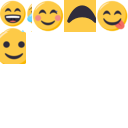
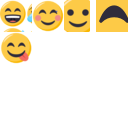
修改生成的sprite名字为图片的原名，增加spriteasset的创建，设置glyph的参数

Changed region(s): [[0.5, 0.0, 1.0, 0.25], [0.0, 0.25, 0.25, 0.5], [0.5, 0.2188, 0.5312, 0.25]]

diff --git a/Assets/Editor/TMPIconTools.cs b/Assets/Editor/TMPIconTools.cs
@@ -7,12 +7,15 @@ using UnityTexture2D = UnityEngine.Texture2D;
 using UnityEditor.Experimental.AssetImporters;
 using UnityEditorInternal;
 using System.IO;
+using TMPro;
 
 public class TMPIconTools : Editor
 {
     public const int ICON_SIZE = 32;
+    public const float DEFAULT_SCALE = 1.5f;
     private const string TMPICON_NAME = "TMPIcon";
     private static string m_SavePath = "Assets/TMPIcon/";
+    private static Dictionary<int, string> m_IconDic = new Dictionary<int, string>();
 
     [MenuItem("TMPIconTools/生成TMPIcon")]
     private static void GenerateTMPIcon()
@@ -66,6 +69,7 @@ public class TMPIconTools : Editor
         {
             return;
         }
+        m_IconDic.Clear();
         int sqrt = (int)(Mathf.Sqrt(texs.Length));
         if (texs.Length - sqrt * sqrt > 0)
         {
@@ -82,6 +86,7 @@ public class TMPIconTools : Editor
         int heightOffset = size - ICON_SIZE;    //左下角为0，0
         for (int i = 0; i < texs.Length; i++)
         {
+            m_IconDic[i] = texs[i].name;
             //var temp = CreateTemporaryDuplicate(texs[i], ICON_SIZE, ICON_SIZE, RenderTextureFormat.ARGB32);
             if (texs[i].isReadable == false)
             {
@@ -184,7 +189,16 @@ public class TMPIconTools : Editor
             spriteRect.alignment = (SpriteAlignment)alignment;
             spriteRect.pivot = pivot;
 
-            spriteRect.name = string.Format("{0}_{1}", TMPICON_NAME, index.ToString());
+            if (m_IconDic.ContainsKey(index))
+            {
+                spriteRect.name = m_IconDic[index];
+            }
+            else
+            {
+                spriteRect.name = "Error" + index.ToString();
+                Debug.LogError("找不到对应索引图片的名称:" + index.ToString());
+            }
+
             //spriteRect.originalName = spriteRect.name;
             spriteRect.border = Vector4.zero;
 
@@ -280,5 +294,49 @@ public class TMPIconTools : Editor
         }
     }
 
+    #endregion
+
+    #region 生成字体
+    [MenuItem("TMPIconTools/生成字体SpriteAsset")]
+    private static void CreateFont()
+    {
+        Object target = Selection.activeObject;
+
+        if (target == null || target.GetType() != typeof(UnityTexture2D))
+        {
+            return;
+        }
+
+        CreateSpriteAsset(target as UnityTexture2D);
+    }
+
+    private static void CreateSpriteAsset(UnityTexture2D sourceTex)
+    {
+        if(sourceTex == null)
+        {
+            return;
+        }
+        string filePathWithName = AssetDatabase.GetAssetPath(sourceTex);
+        string fileNameWithExtension = Path.GetFileName(filePathWithName);
+        string fileNameWithoutExtension = Path.GetFileNameWithoutExtension(filePathWithName);
+        string filePath = filePathWithName.Replace(fileNameWithExtension, "");
+        string assetPath = filePath + fileNameWithoutExtension + ".asset";
+        AssetDatabase.DeleteAsset(assetPath);
+
+        TMPro.EditorUtilities.TMP_SpriteAssetMenu.CreateSpriteAsset();
+
+        TMP_SpriteAsset spriteAsset = AssetDatabase.LoadAssetAtPath(assetPath, typeof(TMP_SpriteAsset)) as TMP_SpriteAsset;
+        if (spriteAsset != null)
+        {
+            var glyph = spriteAsset.spriteGlyphTable;
+            for (int i = 0; i < glyph.Count; i++)
+            {
+                glyph[i].scale = DEFAULT_SCALE;
+                var metrics = glyph[i].metrics;
+                metrics.horizontalBearingY = 1.0f * ICON_SIZE / 4 * 3;
+                glyph[i].metrics = metrics;
+            }
+        }
+    }
     #endregion
 }
